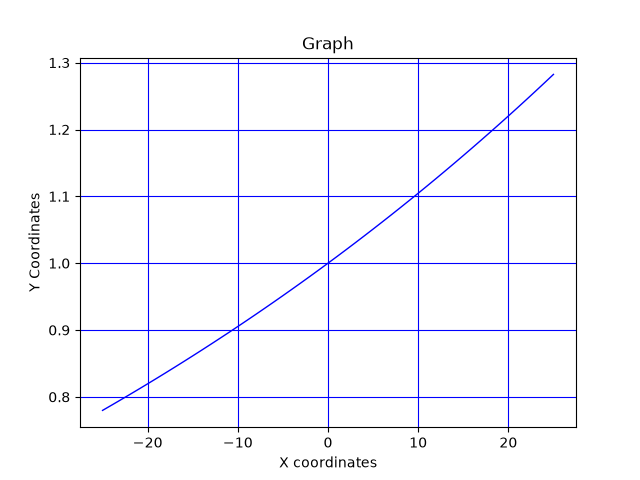
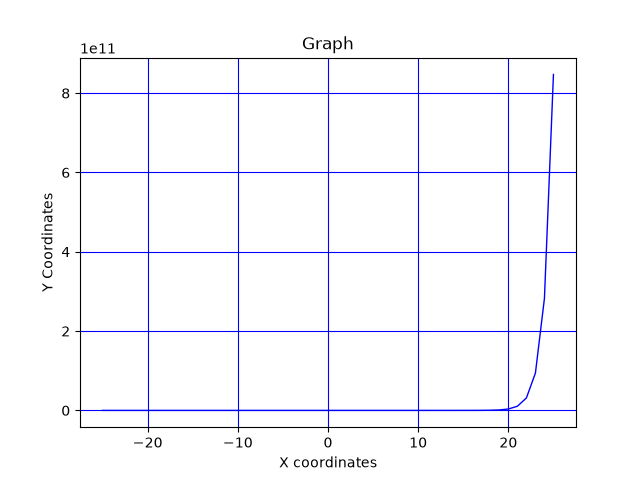
Finished off unit 6 in the exponential api :D

diff --git a/Exponential_API.py b/Exponential_API.py
@@ -15,8 +15,14 @@ class Exponential_Function:
     def get_exponent_laws(self):
         return "(xᵃ)(xᵇ) = xᵃ⁺ᵇ","xᵃ ÷ xᵇ = xᵃ⁻ᵇ","(xᵃ)ᵇ = xᵃˣᵇ","x⁰ = 1","xᵃᐟᵇ = ᵇ√xᵃ = (ᵇ√x)ᵃ","x⁻ᵃ = 1/xᵃ"
 
+    def get_power_law_of_logarithms(self):
+        return "log♭xⁿ = nlog♭x"
+
+    def get_change_of_base_formula(self):
+        return "log♭x = logₐx ÷ logₐ♭"
+
     def subscript_replacer(self,inverted_expo_func):
-            equation = (self.invert_exponential_function.replace("_0","₀_").replace("_1","₁_").replace("_2","₂_").replace("_3","₃_").replace("_4","₄_").replace("_5","₅_").replace("_6","₆_").replace("_7","₇_").replace("_8","₈_").replace("_9","₉_").replace("_-0","₋₀_").replace("_-1","₋₁_").replace("_-2","₋₂_").replace("_-3","₋₃_").replace("_-4","₋₄_").replace("_-5","₋₅_").replace("_-6","₋₆_").replace("_-7","₋₇_").replace("_-8","₋₈_").replace("_-9","₋₉_"))
+            equation = (inverted_expo_func.replace("_0","₀_").replace("_1","₁_").replace("_2","₂_").replace("_3","₃_").replace("_4","₄_").replace("_5","₅_").replace("_6","₆_").replace("_7","₇_").replace("_8","₈_").replace("_9","₉_").replace("_-0","₋₀_").replace("_-1","₋₁_").replace("_-2","₋₂_").replace("_-3","₋₃_").replace("_-4","₋₄_").replace("_-5","₋₅_").replace("_-6","₋₆_").replace("_-7","₋₇_").replace("_-8","₋₈_").replace("_-9","₋₉_"))
             if "_" not in equation:
                 print(equation)
             else:
@@ -36,12 +42,41 @@ class Exponential_Function:
     def invert_exponential_function(self,exponential_func):
         if "^" not in exponential_func:
             exponential_func += "^1"
+        exponential_func = exponential_func.replace(" ","")
         temp_func = "|".join(exponential_func.split("^"))
-        temp_func = "|".join(exponential_func.split("="))
+        temp_func = "|".join(temp_func.split("="))
         temp_func = temp_func.split("|")
         y,b,x = temp_func[0],temp_func[1],temp_func[2]
         inverted_func = self.subscript_replacer(f"{y} = log_{b}") + x
         return inverted_func
+
+    def get_log(self, x):
+        '''tempval = 0
+        while True:
+            if self.b**(tempval) != x:
+                tempval+=1
+            else:
+                break'''
+        return math.log(x,self.b) 
+
+    def get_log_base_10(self,x):
+        return math.log10(x)
+
+    def get_e_value(self):
+        return math.e
+
+    def get_ln(self,x):
+        return math.log(x,self.get_e_value())
+
+    def transform_log_func_coords(self,a=1,k=1,d=0,c=0):
+        xcoords = self.get_expo_func_coords()[0]
+        ycoords = self.get_expo_func_coords()[1]
+        newxcoords = []
+        newycoords = []
+        for i in range(len(xcoords)):
+            newxcoords.append(xcoords[i]/k + d)
+            newycoords.append(ycoords[i]*a + c)
+        return newxcoords,newycoords
 
     def get_expo_func_coords(self):
         ycoords = []
@@ -61,9 +96,9 @@ class Exponential_Function:
     
 
 if __name__ == "__main__":
-    obje = Exponential_Function(1.01)
-    print(obje.get_exponent_laws())
+    obje = Exponential_Function(3)
     obje.graph_expo_function()
+    print(obje.invert_exponential_function("20 = 3^7"))
 
     
         
